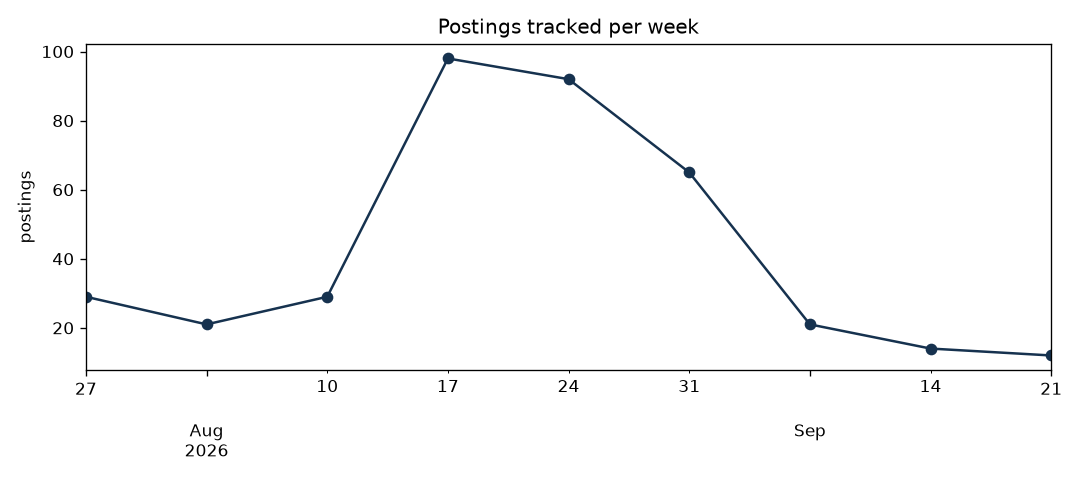
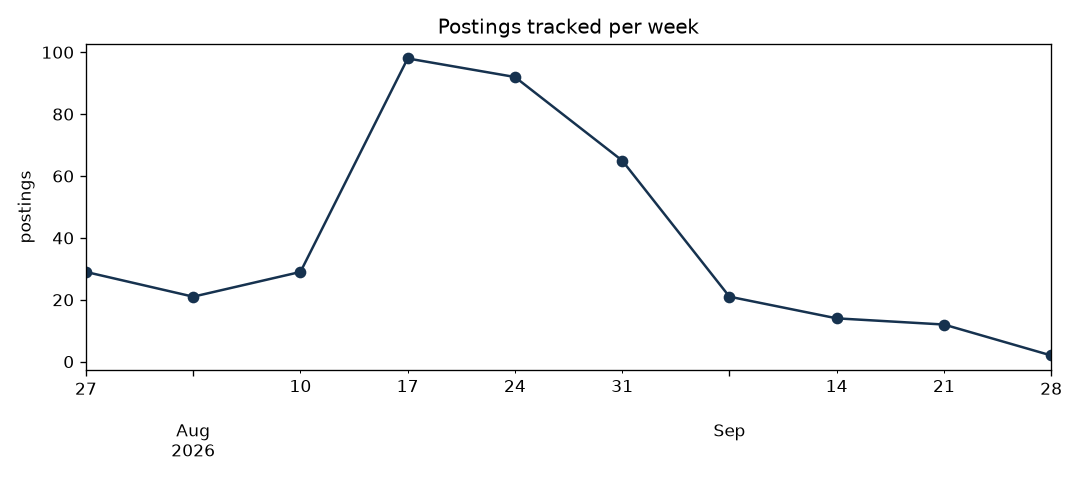
Daily data update

diff --git a/README.md b/README.md
@@ -13,13 +13,13 @@ reporting end to end.
 ## Dashboard
 
 <!-- dashboard:start -->
-*Last updated: 2026-09-30 18:16 UTC*
+*Last updated: 2026-10-01 18:42 UTC*
 
 | | |
 |---|---|
-| Postings tracked | 381 |
-| Companies | 318 |
-| New since last run | 0 |
+| Postings tracked | 383 |
+| Companies | 319 |
+| New since last run | 2 |
 | Data/ML-related share | 29% |
 
 ![Postings per week](reports/figures/postings_per_week.png)
